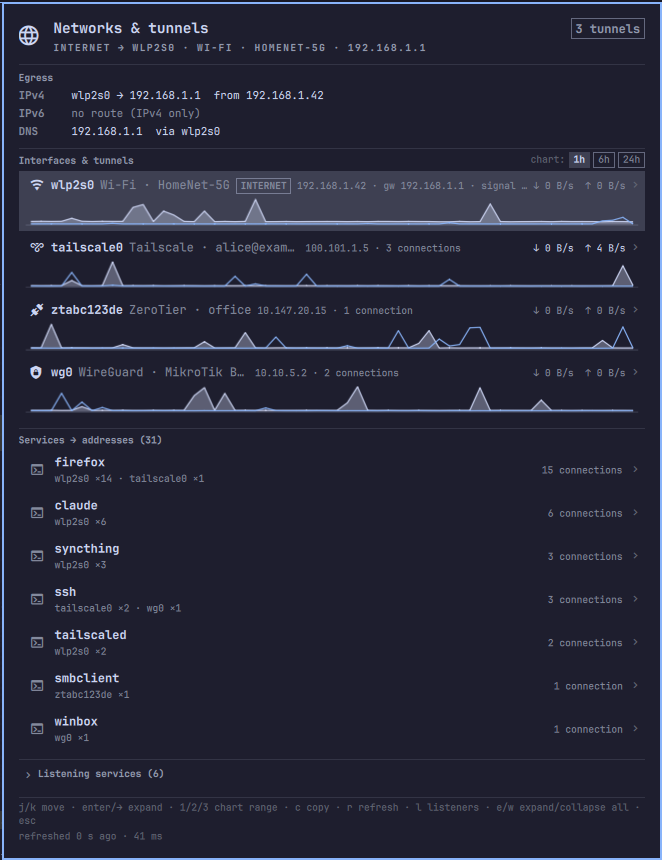
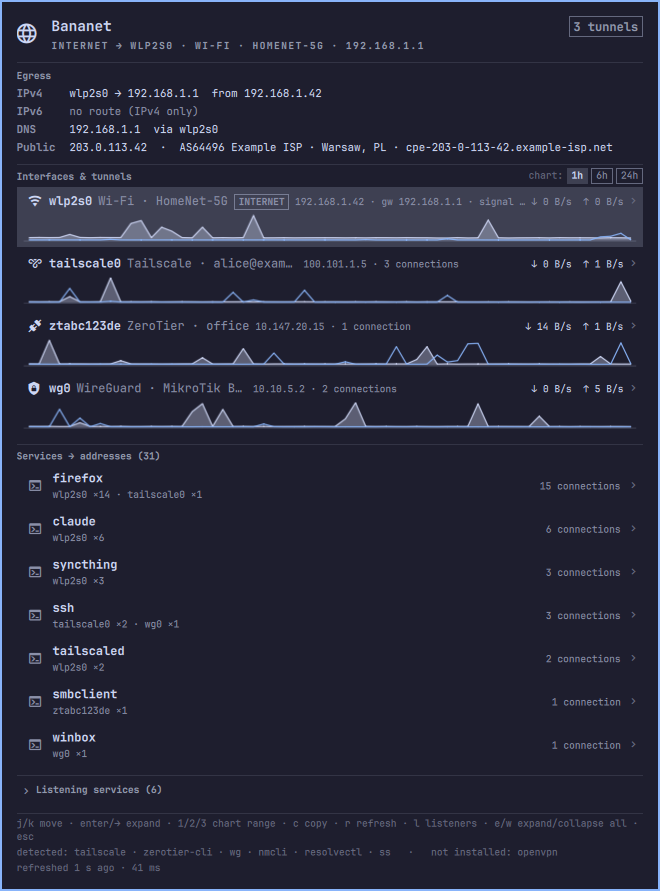
Public IP with owner, tool detection, showVirtual in manifest, light-theme screenshot
- collect.py: public IPv4/IPv6 via icanhazip.com and owner/city/country via
  ipinfo.io, checked every 5 min, on egress route change or manual refresh;
  cached in ~/.cache/omarchy-bananet/public.json, stale answer kept on failure.
  `--no-public` / `--public-now` flags, demo data included.
- collect.py: `tools` list (tailscale, zerotier-cli, wg, openvpn, nmcli,
  resolvectl, ss) so the panel says what it detected and never asks for a
  tool that is not installed.
- Panel.qml: "Public" line in Egress, tooltip line, detected-tools footer,
  `publicIp` setting, `r` forces a public IP re-check.
- manifest.json: `showVirtual` and `publicIp` in defaults + schema.
- README: public IP, detection, privacy section with the exact endpoints,
  refreshed panel.png and new panel-light.png (Catppuccin Latte).

Claude-Session: https://claude.ai/code/session_01CChLTfHAfUvmKgEPjyvpKB

diff --git a/Panel.qml b/Panel.qml
@@ -74,6 +74,8 @@ Panel {
   readonly property bool showInactive: boolSetting("showInactive", true)
   readonly property bool showVirtual: boolSetting("showVirtual", false)
   readonly property bool showLoopback: boolSetting("showLoopback", false)
+  readonly property bool publicIp: boolSetting("publicIp", true)
+  property bool forcePublic: false     // next refresh re-checks the public IP now (manual refresh)
   readonly property var labelOverrides: {
     var v = setting("labels", null)
     return (v && typeof v === "object") ? v : {}
@@ -99,6 +101,29 @@ Panel {
 
   readonly property var egress: snap && snap.egress ? snap.egress : {}
   readonly property var egress4: egress.v4 || null
+  readonly property var pub: snap && snap.public ? snap.public : null
+  readonly property var tools: snap && snap.tools ? snap.tools : []
+  readonly property string publicText: {
+    if (!pub) return ""
+    if (!pub.available) return pub.error ? "unreachable (" + pub.error + ")" : (pub.reason || "unknown")
+    var parts = []
+    if (pub.v4) parts.push(pub.v4)
+    if (pub.v6) parts.push(pub.v6)
+    var g = pub.info || {}
+    var who = []
+    if (g.org) who.push(g.org)
+    if (g.city || g.country) who.push([g.city, g.country].filter(function(x) { return !!x }).join(", "))
+    if (g.hostname) who.push(g.hostname)
+    var out = parts.join("  /  ") + (who.length ? "  ·  " + who.join(" · ") : "")
+    if (pub.stale) out += "  (stale, last check failed)"
+    return out
+  }
+  readonly property string toolsText: {
+    var found = [], missing = []
+    for (var i = 0; i < tools.length; i++) (tools[i].found ? found : missing).push(tools[i].name)
+    if (found.length === 0 && missing.length === 0) return ""
+    return "detected: " + found.join(" · ") + (missing.length ? "   ·   not installed: " + missing.join(" · ") : "")
+  }
   readonly property var egress6: egress.v6 || null
   readonly property int tunnelsActive: snap && snap.tunnelsActive ? snap.tunnelsActive : 0
   readonly property var defaultIface: {
@@ -181,6 +206,8 @@ Panel {
     if (!useSudo) args.push("--no-sudo")
     if (showLoopback) args.push("--loopback")
     if (opened) args.push("--history")
+    if (!publicIp) args.push("--no-public")
+    if (forcePublic) { args.push("--public-now"); forcePublic = false }
     if (boolSetting("demo", false)) args.push("--demo")
     var keys = Object.keys(labelOverrides)
     if (keys.length > 0) { args.push("--labels"); args.push(JSON.stringify(labelOverrides)) }
@@ -349,6 +376,7 @@ Panel {
       lines.push("Internet → " + egress4.dev + (d ? " (" + d.label + ")" : "") + (egress4.gateway ? " via " + egress4.gateway : ""))
     } else lines.push("Internet → no default route")
     if (egress.exitNode && egress.exitNode.name) lines.push("Tailscale exit node: " + egress.exitNode.name)
+    if (pub && pub.available) lines.push("Public IP: " + (pub.v4 || pub.v6 || "?") + ((pub.info || {}).org ? " · " + pub.info.org : "") + (pub.stale ? " (stale)" : ""))
     var list = snap.interfaces || []
     for (var i = 0; i < list.length; i++) {
       var f = list[i]
@@ -877,7 +905,7 @@ Panel {
       onCloseRequested: root.close()
       onTabRequested: function(direction) { root.switchPanel(direction) }
       onTextKey: function(t) {
-        if (t === "r") root.refresh()
+        if (t === "r") { root.forcePublic = true; root.refresh() }
         else if (t === "c") root.copyCursor()
         else if (t === "l") root.showListeners = !root.showListeners
         else if (t === "e") root.setAllExpanded(true)
@@ -932,6 +960,7 @@ Panel {
             InfoLine { label: "IPv6"; value: root.egress6 ? (root.egress6.dev + (root.egress6.gateway ? " → " + root.egress6.gateway : "") + (root.egress6.src ? "  from " + root.egress6.src : "")) : "no route (IPv4 only)"; dimValue: !root.egress6 }
             InfoLine { visible: !!root.egress.exitNode; label: "Exit"; value: root.egress.exitNode ? ("Tailscale exit node " + (root.egress.exitNode.name || (root.egress.exitNode.ips || []).join(",")) + (root.egress.exitNode.online ? "" : " — OFFLINE")) : ""; urgentValue: root.egress.exitNode ? !root.egress.exitNode.online : false }
             InfoLine { label: "DNS"; value: root.egress.dns && root.egress.dns.length ? root.egress.dns.join(", ") + (root.egress.dnsDev ? "  via " + root.egress.dnsDev : "") : (root.loaded ? "none" : "…") }
+            InfoLine { visible: root.publicIp; label: "Public"; value: root.pub ? root.publicText : (root.loaded ? "checking…" : "…"); dimValue: !root.pub || !root.pub.available || !!root.pub.stale; urgentValue: !!(root.pub && root.pub.available === false && root.pub.error) }
 
             Repeater {
               model: JSON.parse(root.warningsJson)
@@ -1159,6 +1188,16 @@ Panel {
             Text {
               width: parent.width
               text: "j/k move · enter/→ expand · 1/2/3 chart range · c copy · r refresh · l listeners · e/w expand/collapse all · esc"
+              color: root.dimmer
+              font.family: root.fontFamily
+              font.pixelSize: Style.font.caption
+              wrapMode: Text.WordWrap
+            }
+
+            Text {
+              visible: root.toolsText !== ""
+              width: parent.width
+              text: root.toolsText
               color: root.dimmer
               font.family: root.fontFamily
               font.pixelSize: Style.font.caption

diff --git a/collect.py b/collect.py
@@ -22,12 +22,15 @@ import subprocess
 import sys
 import threading
 import time
+import urllib.request
 
 HOME = os.path.expanduser("~")
 CACHE_DIR = os.path.join(os.environ.get("XDG_CACHE_HOME", os.path.join(HOME, ".cache")), "omarchy-bananet")
 RDNS_CACHE = os.path.join(CACHE_DIR, "rdns.json")
 SUDO_CACHE = os.path.join(CACHE_DIR, "sudo.json")
 HISTORY_FILE = os.path.join(CACHE_DIR, "history.jsonl")
+PUBLIC_CACHE = os.path.join(CACHE_DIR, "public.json")
+PUBLIC_TTL = 300           # seconds between public-IP checks (also re-checked when the egress route changes)
 HISTORY_STEP = 30          # seconds between stored samples
 HISTORY_KEEP = 24 * 3600   # seconds of history to keep
 
@@ -40,6 +43,8 @@ OPTS = {
     "loopback": False,
     "history": False,
     "demo": False,
+    "public": True,
+    "public_now": False,
 }
 
 WELL_KNOWN_PORTS = {
@@ -582,6 +587,99 @@ def collect_openvpn(links, active_conns):
     return result
 
 
+# --------------------------------------------------------------------------- tools / public IP
+
+TOOLS = (
+    ("tailscale", "Tailscale"),
+    ("zerotier-cli", "ZeroTier"),
+    ("wg", "WireGuard (wireguard-tools)"),
+    ("openvpn", "OpenVPN"),
+    ("nmcli", "NetworkManager"),
+    ("resolvectl", "systemd-resolved"),
+    ("ss", "sockets (iproute2)"),
+)
+
+
+def collect_tools():
+    """What is installed on this machine. The panel adapts to this list: nothing
+    is asked of the user for a tool that is simply not there."""
+    out = []
+    for name, label in TOOLS:
+        out.append({"name": name, "label": label, "found": bool(which(name))})
+    return out
+
+
+def http_get(url, timeout):
+    req = urllib.request.Request(url, headers={"User-Agent": "omarchy-bananet/1.0", "Accept": "application/json, text/plain"})
+    with urllib.request.urlopen(req, timeout=timeout) as r:
+        return r.read().decode("utf-8", "replace").strip()
+
+
+def collect_public(egress4, egress6, exit_node):
+    """Public address as seen from the internet, plus who owns it (ipinfo.io).
+    Checked at most every PUBLIC_TTL seconds or when the egress route changes,
+    so the widget does not talk to the outside world on every refresh."""
+    if not OPTS["public"]:
+        return None
+    via = {
+        "dev": (egress4 or egress6 or {}).get("dev", ""),
+        "gateway": (egress4 or egress6 or {}).get("gateway", ""),
+        "src": (egress4 or egress6 or {}).get("src", ""),
+        "exitNode": (exit_node or {}).get("name", "") if exit_node else "",
+    }
+    key = "|".join(via[k] for k in ("dev", "gateway", "src", "exitNode"))
+    cache = load_json_file(PUBLIC_CACHE, {})
+    now = time.time()
+    if not egress4 and not egress6:
+        return {"available": False, "reason": "no default route", "via": via, "geo": cache.get("geo") or {}}
+    fresh = cache.get("key") == key and now - cache.get("checkedAt", 0) < PUBLIC_TTL and bool(cache.get("v4") or cache.get("v6"))
+    if fresh and not OPTS["public_now"]:
+        cache["stale"] = False
+        cache["available"] = True
+        return cache
+
+    results = {}
+
+    def fetch(name, url):
+        try:
+            text = http_get(url, 3.0)
+            if re.match(r"^[0-9a-fA-F.:]+$", text):
+                results[name] = text
+        except Exception as e:  # noqa: BLE001 - network errors are expected (no IPv6, offline)
+            results[name + "_err"] = str(e).split("\n")[0][:120]
+
+    threads = [threading.Thread(target=fetch, args=("v4", "https://ipv4.icanhazip.com")),
+               threading.Thread(target=fetch, args=("v6", "https://ipv6.icanhazip.com"))]
+    for t in threads:
+        t.daemon = True
+        t.start()
+    for t in threads:
+        t.join(3.5)
+    v4 = results.get("v4")
+    v6 = results.get("v6")
+    if not v4 and not v6:
+        # Offline or blocked: keep the last known answer, mark it stale.
+        old = dict(cache) if cache.get("v4") or cache.get("v6") else {}
+        old.update({"available": bool(old.get("v4") or old.get("v6")), "stale": True, "via": via,
+                    "error": results.get("v4_err") or results.get("v6_err") or "no answer", "lastTry": now})
+        return old
+    geo_cache = cache.get("geo") or {}
+    geo_ip = v4 or v6
+    geo = geo_cache.get(geo_ip)
+    if geo is None:
+        geo = {}
+        try:
+            data = json.loads(http_get("https://ipinfo.io/%s/json" % geo_ip, 3.0))
+            geo = {k: data.get(k, "") for k in ("hostname", "city", "region", "country", "org", "timezone")}
+        except Exception as e:  # noqa: BLE001
+            geo = {"error": str(e).split("\n")[0][:120]}
+        geo_cache = {geo_ip: geo}  # keep only the current one; IPs change rarely
+    out = {"available": True, "stale": False, "v4": v4, "v6": v6, "key": key, "via": via,
+           "checkedAt": now, "geo": geo_cache, "info": geo}
+    save_json_file(PUBLIC_CACHE, out)
+    return out
+
+
 # --------------------------------------------------------------------------- sockets
 
 def parse_ss(text, listening=False):
@@ -836,6 +934,10 @@ def demo_output(now):
         "interfaces": interfaces, "tunnelsActive": 3, "connections": connections, "otherStates": 2, "processes": process_list,
         "listeners": listeners, "rules": [], "tailscale": tailscale, "zerotier": {"installed": True, "available": True, "networks": [zt_net], "peers": zt_peers, "rootCount": 4, "rootsDirect": 3},
         "warnings": [], "setup": [], "history": history if OPTS["history"] else None, "historyStep": HISTORY_STEP,
+        "tools": [{"name": n, "label": l, "found": n not in ("openvpn",)} for n, l in TOOLS],
+        "public": {"available": True, "stale": False, "v4": "203.0.113.42", "v6": None, "checkedAt": now - 95,
+                   "via": {"dev": "wlp2s0", "gateway": "192.168.1.1", "src": "192.168.1.42", "exitNode": ""},
+                   "info": {"hostname": "cpe-203-0-113-42.example-isp.net", "city": "Warsaw", "region": "Mazovia", "country": "PL", "org": "AS64496 Example ISP", "timezone": "Europe/Warsaw"}},
     }
 
 
@@ -856,6 +958,10 @@ def main():
             OPTS["history"] = True
         elif a == "--demo":
             OPTS["demo"] = True
+        elif a == "--no-public":
+            OPTS["public"] = False
+        elif a == "--public-now":
+            OPTS["public_now"] = True
         elif a == "--max-rdns" and i + 1 < len(args):
             OPTS["max_rdns"] = int(args[i + 1]); i += 1
         elif a == "--labels" and i + 1 < len(args):
@@ -1125,6 +1231,8 @@ def main():
         "zerotier": zerotier,
         "warnings": WARNINGS,
         "setup": SETUP,
+        "tools": collect_tools(),
+        "public": collect_public(egress4, egress6, (tailscale or {}).get("exitNode")),
         "history": history,
         "historyStep": HISTORY_STEP,
     }

diff --git a/README.md b/README.md
@@ -2,10 +2,11 @@
 
 **Where does your traffic go?** An [Omarchy](https://omarchy.org) bar widget
 that shows **where this machine's traffic really exits**: active networks and tunnels (Wi‑Fi, Ethernet,
-Tailscale, ZeroTier, WireGuard / MikroTik Back To Home, OpenVPN), live
-throughput with 24 h charts, routes, DNS, and **which services (processes)
-talk to which addresses over which tunnel**. No root required; everything
-degrades gracefully and tells you what one command would unlock.
+Tailscale, ZeroTier, WireGuard / MikroTik Back To Home, OpenVPN), **your
+public IP and who owns it**, live throughput with 24 h charts, routes, DNS,
+and **which services (processes) talk to which addresses over which tunnel**.
+No root required; the widget detects what is installed and only uses that,
+degrades gracefully, and tells you what one command would unlock.
 
 <p align="center">
   <img src="screenshots/panel.png" width="49%" alt="Panel: egress, interfaces with sparklines, services">
@@ -40,9 +41,18 @@ when the content does not fit.
   <img src="screenshots/panel-services.png" width="49%" alt="Services expanded: remote addresses per process and interface">
 </p>
 
+Colours follow the active Omarchy theme, light or dark:
+
+<p align="center">
+  <img src="screenshots/panel-light.png" width="49%" alt="The same panel on Catppuccin Latte (light theme)">
+</p>
+
 - *Egress* — IPv4/IPv6 default route (honours policy routing, so a Tailscale
   exit node or a ZeroTier `allowDefault` show up truthfully), current DNS
-  resolver, warnings.
+  resolver, **public IP** (IPv4 / IPv6) with the owning network, city and
+  country, warnings. The public address is checked every 5 minutes, when the
+  egress route changes, and on manual refresh (`r`); a failed check keeps the
+  last answer marked *stale* instead of pretending.
 - *Interfaces & tunnels* — one row per interface: kind, network/tailnet name,
   IP, gateway, Wi‑Fi signal, connection count, a sparkline and live ↓/↑ rates.
   Hover = tooltip with details; click/Enter = expand: **traffic chart over
@@ -90,6 +100,7 @@ when the content does not fit.
 | `iconStyle` | `banana` | bar icon: `banana`, `emoji`, `globe` |
 | `showLabel` | false | `wifi +2` label next to the icon |
 | `showTooltip` | false | summary tooltip on hover |
+| `publicIp` | true | check the public IP and its owner (icanhazip.com + ipinfo.io), see *Privacy* |
 | `resolveNames` | true | reverse DNS for remote addresses (cached in `~/.cache/omarchy-bananet/`) |
 | `useSudo` | true | try `sudo -n` for `wg`, `zerotier-cli`, `ss` (passwordless only; answer remembered 10 min) |
 | `showInactive` | true | list interfaces that are down (e.g. Ethernet without a cable) |
@@ -101,6 +112,11 @@ when the content does not fit.
 Example: `omarchy bar set banan.bananet labels '{"wg0":"MikroTik BTH"}' --json`
 
 ## Privileges — what works without root and what needs one step
+
+The collector first detects what is installed (`tailscale`, `zerotier-cli`,
+`wg`, `openvpn`, `nmcli`, `resolvectl`, `ss`) and only uses those tools; the
+panel footer lists what it found. Nothing is suggested for a tool that is not
+there, so a machine without WireGuard never sees a WireGuard setup card.
 
 Everything basic (interfaces, routes, counters, DNS, Tailscale, connections
 of your own processes) works without root. Three things need a one-time setup.
@@ -171,10 +187,18 @@ omarchy-shell banan.bananet refresh
 
 ## Privacy
 
-Everything runs locally. The only network activity the widget itself causes is
-optional reverse DNS for remote addresses (`resolveNames`), which goes through
-your normal resolver. The screenshots above were taken in demo mode with
-synthetic data.
+Everything runs locally except two optional lookups:
+
+- **Public IP** (`publicIp`, on by default): `https://ipv4.icanhazip.com` and
+  `https://ipv6.icanhazip.com` return the address, then `https://ipinfo.io/<ip>/json`
+  tells who owns it (organisation, city, country). This happens at most every
+  5 minutes, when the egress route changes, or on manual refresh, never on every
+  tick; the answer is cached in `~/.cache/omarchy-bananet/public.json`. Set
+  `publicIp` to `false` to never contact these services.
+- **Reverse DNS** for remote addresses (`resolveNames`), which goes through
+  your normal resolver.
+
+The screenshots above were taken in demo mode with synthetic data.
 
 ## License
 
